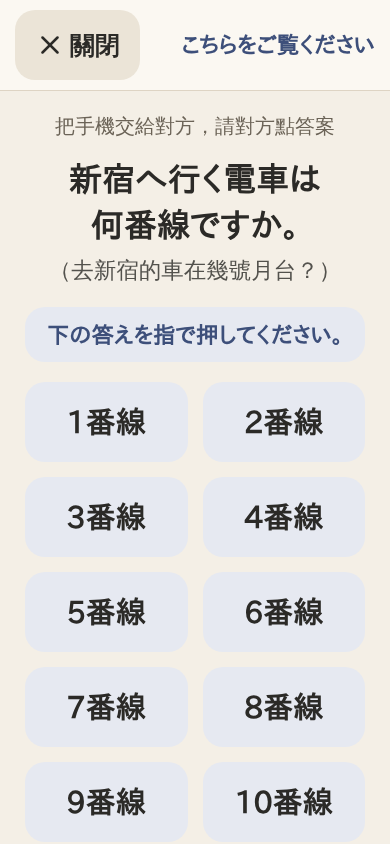
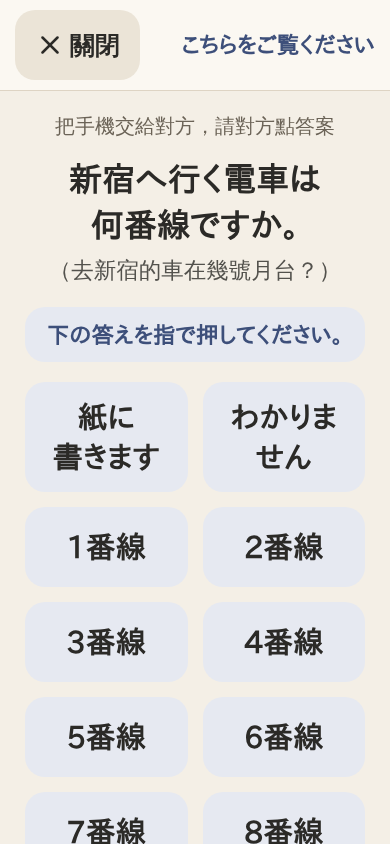
Review fixes: relation lookup by own keys, ways out first in long answer lists
- relationJa uses Object.hasOwn: 'constructor' stays as typed.
- A check-out-only stay is ordered by the night before.
- looksJapanese takes kana-only and particle-less short notes without
  Chinese function words as Japanese.
- 給對方點選: a list over 10 answers puts 紙に書きます and わかりません
  first.
- hotelSay: a name with Latin letters needs a reading; unused import.

Claude-Session: https://claude.ai/code/session_01HCVzmT4sZctHsc4m8wUAkT

diff --git a/src/profile/cards.ts b/src/profile/cards.ts
@@ -104,7 +104,11 @@ const RELATIONS: Record<string, string> = {
   女婿: "義理の息子",
 };
 
-export const relationJa = (relation: string) => RELATIONS[relation.trim()] ?? relation.trim();
+// hasOwn: the word comes from the profile (or a share link), and "constructor" must not reach Object.prototype.
+export const relationJa = (relation: string) => {
+  const key = relation.trim();
+  return Object.hasOwn(RELATIONS, key) ? RELATIONS[key]! : key;
+};
 
 /**
  * The relation for a card both sides read: Japanese, then the typed word in brackets, since
@@ -165,7 +169,8 @@ export function hotelCard(hotel: Hotel): CardBlock {
 export function hotelSay(hotel: Hotel): Jp {
   const word = hotelWord(hotel);
   // A reading the voice will use (userWord keeps only a pure-kana one, as ruby), or kana in the name.
-  const sayable = word.includes("|") || /[\u3041-\u30fa]/.test(hotel.name);
+  // Without a reading: a name in Japanese script only (ホテル Gracery 新宿 would mangle Gracery).
+  const sayable = word.includes("|") || (/[\u3041-\u30fa]/.test(hotel.name) && !/[A-Za-z]/.test(hotel.name));
   return sayable && plain(word).trim() ? `${word} まで お{願|ねが}い します。` : LINES.taxiToHotel;
 }
 

diff --git a/tests/cards.test.ts b/tests/cards.test.ts
@@ -50,6 +50,7 @@ describe("help card", () => {
     // A reading that isn't kana is not used by the voice, so it doesn't make the name sayable.
     expect(hotelCard({ ...hotel, name: "新宿格拉斯麗酒店", kana: "Gracery" }).say).toBe(LINES.taxiToHotel);
     expect(hotelCard({ ...hotel, name: "ホテルグレイスリー新宿", kana: "" }).say).toBe("ホテルグレイスリー新宿 まで お{願|ねが}い します。");
+    expect(hotelCard({ ...hotel, name: "ホテル Gracery 新宿", kana: "" }).say).toBe(LINES.taxiToHotel);
   });
 
   it("puts an allergy typed in 其他過敏 on its own line, not under food", () => {
@@ -67,6 +68,7 @@ describe("help card", () => {
   it("formats contacts without a phone, and keeps a relation it doesn't know as typed", () => {
     expect(contactLines({ relation: "女兒", name: "", phone: "" }, "tw")).toEqual(["娘（女兒）"]);
     expect(contactLines({ relation: "鄰居", name: "", phone: "" }, "tw")).toEqual(["鄰居"]);
+    expect(contactLines({ relation: "constructor", name: "", phone: "" }, "tw")).toEqual(["constructor"]);
   });
 
   it("prints the passport name as the passport does, in capitals", () => {

diff --git a/src/profile/profile.ts b/src/profile/profile.ts
@@ -227,7 +227,8 @@ export function today(now = new Date()): string {
  */
 export function currentHotel(profile: Profile, day = today()): Hotel | null {
   const hotels = profile.hotels;
-  const start = (h: Hotel) => h.from || h.to;
+  // A stay with only a check-out date began at the latest the night before it.
+  const start = (h: Hotel) => h.from || (h.to && dayBefore(h.to));
   const end = (h: Hotel) => h.to || h.from;
   const covers = (h: Hotel) => {
     if (!start(h) || start(h) > day) return false;
@@ -240,6 +241,13 @@ export function currentHotel(profile: Profile, day = today()): Hotel | null {
   const next = hotels.filter((h) => start(h) > day).sort((a, b) => start(a).localeCompare(start(b)))[0];
   const last = hotels.filter((h) => start(h) && end(h) < day).sort((a, b) => end(b).localeCompare(end(a)))[0];
   return covering ?? next ?? last ?? hotels[0] ?? null;
+}
+
+/** YYYY-MM-DD of the day before. */
+function dayBefore(day: string): string {
+  const date = new Date(`${day}T12:00:00`);
+  date.setDate(date.getDate() - 1);
+  return today(date);
 }
 
 /** The place is planned for `day`. */

diff --git a/src/ui/scene.ts b/src/ui/scene.ts
@@ -252,10 +252,11 @@ function rescueDock(): HTMLElement[] {
 export function looksJapanese(text: string): boolean {
   const particles = text.match(/[\u4e00-\u9fff\u30a1-\u30fa\u30fc0-9A-Za-z][はをへがにで]/g) ?? [];
   const hiragana = (text.match(/[\u3041-\u3096]/g) ?? []).filter((c) => c !== "の");
-  // A short note (エレベーターは改札内) has one particle and little else: Japanese unless it has
-  // Chinese function words.
+  // A short note (エレベーターは改札内, エレベーターあり) has little of either: Japanese unless it
+  // has Chinese function words.
   const chinese = /[在的是到從往跟與和嗎了個]/.test(text);
-  return particles.length >= 1 && (hiragana.length >= 2 || !chinese);
+  if (particles.length >= 1 && hiragana.length >= 2) return true;
+  return !chinese && (particles.length >= 1 || hiragana.length >= 2);
 }
 
 /** The picked station's 電梯筆記, ready to enlarge for station staff. */

diff --git a/src/ui/overlay.ts b/src/ui/overlay.ts
@@ -1,3 +1,4 @@
+import { DONT_KNOW, WRITE_IT } from "../content/replies";
 import type { Jp, Reply } from "../content/types";
 import { plain } from "../lib/jp";
 import type { Line } from "../profile/cards";
@@ -274,8 +275,12 @@ export function askOther(question: { jp: Jp; zh: string }, replies: Reply[]): vo
   openOverlay("給對方點選", (close) => {
     const root = h("div", { class: "flex min-h-0 flex-1 flex-col" });
 
+    // A long list (platforms 1–27) puts its ways out first, so 紙に書きます and わかりません are on the first screen.
+    const isWayOut = (reply: Reply) => reply.jp === WRITE_IT.jp || reply.jp === DONT_KNOW.jp;
+    const ordered = replies.length > 10 ? [...replies.filter(isWayOut), ...replies.filter((r) => !isWayOut(r))] : replies;
+
     function asking(): void {
-      const options = replies.map((reply) =>
+      const options = ordered.map((reply) =>
         h(
           "button",
           {

diff --git a/tests/ui-overlay.test.ts b/tests/ui-overlay.test.ts
@@ -297,6 +297,13 @@ describe("askOther", () => {
     for (const reply of replies) expect(button(dialog, plain(reply.jp)).getAttribute("lang")).toBe("ja");
   });
 
+  it("puts the ways out first in a long list, so they show without scrolling", async () => {
+    const { repliesFor } = await import("../src/content/replies");
+    ov.askOther(question, repliesFor("platform"));
+    const answers = buttons(topDialog()).filter((b) => b.getAttribute("lang") === "ja").map((b) => b.textContent);
+    expect(answers.slice(0, 3)).toEqual(["紙に書きます", "わかりません", "1番線"]);
+  });
+
   it("thanks the person who answered, in Japanese, and asks for the phone back", () => {
     ov.askOther(question, replies);
     button(topDialog(), "1番線").click();

diff --git a/tests/profile.test.ts b/tests/profile.test.ts
@@ -70,6 +70,13 @@ describe("trip dates", () => {
     expect(currentHotel(profile, "2026-11-26")?.name).toBe(shinjuku.name);
   });
 
+  it("orders a check-out-only stay by the night before, so a first night's hotel stays first", () => {
+    const profile = sampleProfile();
+    const [shinjuku, kyoto] = profile.hotels as [Hotel, Hotel];
+    profile.hotels = [{ ...kyoto, from: "2026-12-03", to: "2026-12-05" }, { ...shinjuku, from: "", to: "2026-12-03" }];
+    expect(currentHotel(profile, "2026-11-26")?.name).toBe(shinjuku.name);
+  });
+
   it("dates a stay with only a check-out date by that day, so it never covers the days before it", () => {
     const profile = sampleProfile();
     const [shinjuku, kyoto] = profile.hotels as [Hotel, Hotel];

diff --git a/tests/ui-scene.test.ts b/tests/ui-scene.test.ts
@@ -313,5 +313,7 @@ describe("lift note language", () => {
     expect(looksJapanese("在「みなとみらい」站搭電梯到3樓")).toBe(false);
     expect(looksJapanese("改札を出て右のエレベーター")).toBe(true);
     expect(looksJapanese("エレベーターは改札内")).toBe(true);
+    expect(looksJapanese("エレベーターあり（改札内）")).toBe(true);
+    expect(looksJapanese("えきのなかにあります")).toBe(true);
   });
 });

diff --git a/src/ui/hotel.ts b/src/ui/hotel.ts
@@ -1,6 +1,6 @@
 import { plain } from "../lib/jp";
 import { dialable } from "../lib/phone";
-import { hotelCard, LINES } from "../profile/cards";
+import { hotelCard } from "../profile/cards";
 import { currentHotel, loadProfile } from "../profile/profile";
 import { BUTTON, h, icon } from "./dom";
 import { callButton, cardBlock } from "./help";

diff --git a/docs/changelog.md b/docs/changelog.md
@@ -20,7 +20,7 @@ From user testing with five testers playing a 68-year-old first-time traveller, 
 - **Drugstore:** 〜はありますか (do you have…?) instead of the blunt 〜がほしいです (I want…).
 
 ### 給對方點選 (Let them tap)
-- **Platforms up to 27 (the Shinkansen platforms at Tokyo and Shin-Osaka);** 紙に書きます (I'll write it on paper) in every list of places, times and numbers.
+- **Platforms up to 27 (the Shinkansen platforms at Tokyo and Shin-Osaka);** 紙に書きます (I'll write it on paper) in every list of places, times and numbers, and in a long list it and わかりません (I don't know) come first.
 - **Answers that fit the question:**
   - May I use the toilet? どうぞ／お貸しできません／トイレはありません (go ahead / sorry, you can't / there's no toilet).
   - Is this medicine OK with my allergy? 飲んでも大丈夫です／飲まないでください／薬剤師に確認します (it's fine / don't take it / I'll ask the pharmacist).
